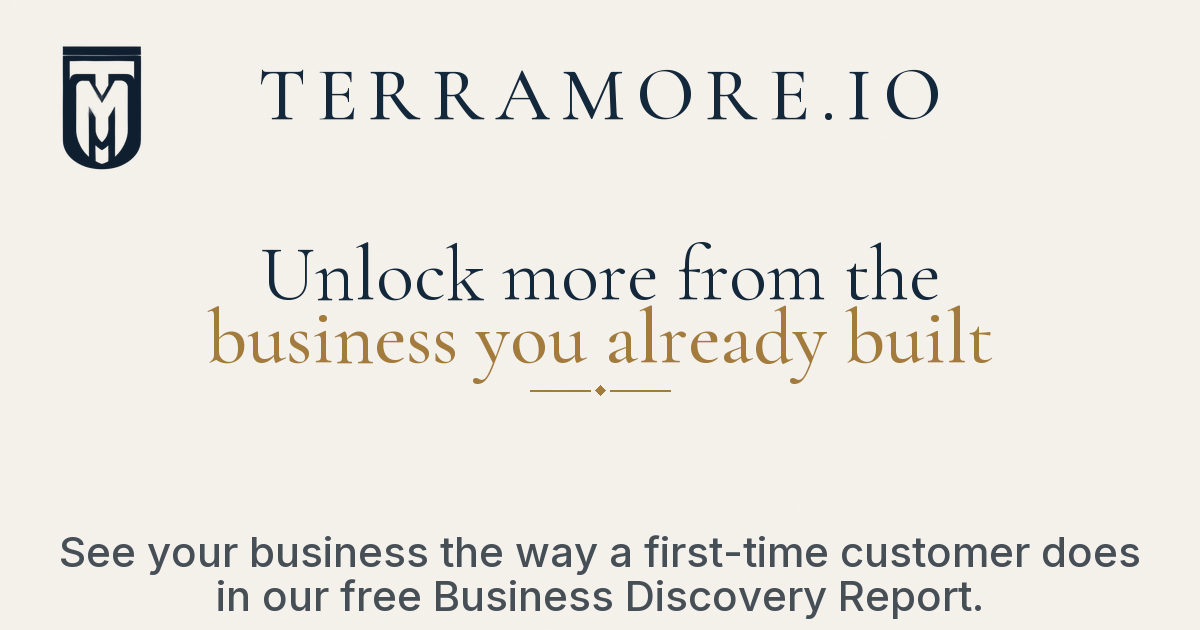
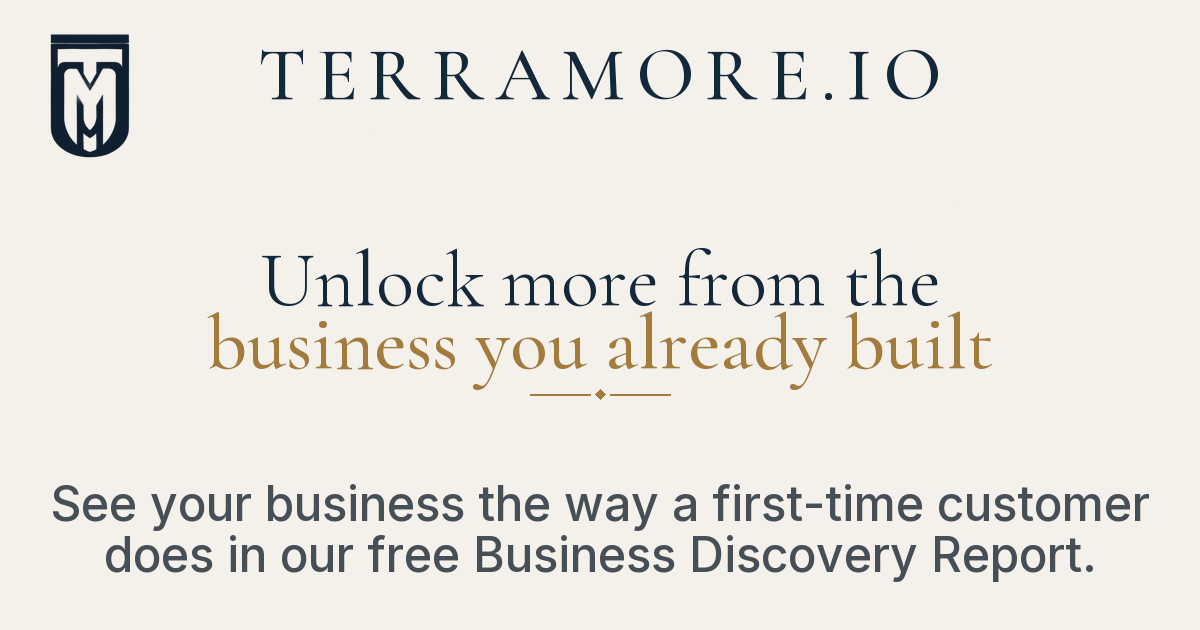
Title-case the growth-team line and balance the share card margins.

diff --git a/app/layout.tsx b/app/layout.tsx
@@ -9,7 +9,7 @@ const googleSiteVerification =
 
 export const metadata: Metadata = {
   ...(googleSiteVerification ? { verification: { google: googleSiteVerification } } : {}),
-  title: 'Terramore | A growth team for owners',
+  title: 'Terramore | A Growth Team for Owners',
   description: 'Terramore works inside your store, ads, and email to find where you lose sales and fix it. For owners with a shop, a service, or a list. Talk first, or ask for a free Digital Footprint report.',
   keywords: 'growth team, small business marketing, ecommerce, email marketing, advertising, digital footprint report',
   authors: [{ name: 'Adam Moreno' }],
@@ -27,7 +27,7 @@ export const metadata: Metadata = {
     apple: 'https://res.cloudinary.com/dzzzkruux/image/upload/v1768374905/Screenshot_2026-01-13_at_11.10.56_PM_eqtvoj.png',
   },
   openGraph: {
-    title: 'Terramore | A growth team for owners',
+    title: 'Terramore | A Growth Team for Owners',
     description: 'Terramore works inside your store, ads, and email to find where you lose sales and fix it. For owners with a shop, a service, or a list. Talk first, or ask for a free Digital Footprint report.',
     url: 'https://terramore.io',
     siteName: 'Terramore.io',
@@ -44,7 +44,7 @@ export const metadata: Metadata = {
   },
   twitter: {
     card: 'summary_large_image',
-    title: 'Terramore | A growth team for owners',
+    title: 'Terramore | A Growth Team for Owners',
     description: 'Terramore works inside your store, ads, and email to find where you lose sales and fix it. For owners with a shop, a service, or a list. Talk first, or ask for a free Digital Footprint report.',
     images: ['/share/terramore-share-v2-og.png'],
   },

diff --git a/app/llms.txt/route.ts b/app/llms.txt/route.ts
@@ -1,6 +1,6 @@
 const LLMS_TXT = `# Terramore
 
-> A growth team for owners. Terramore is a founder-led growth consultancy that works inside the store, ads, and email a business already pays for, finds where it loses sales, and fixes that step.
+> A Growth Team for Owners. Terramore is a founder-led growth consultancy that works inside the store, ads, and email a business already pays for, finds where it loses sales, and fixes that step.
 
 Terramore serves owners with a shop, a service, or a customer list. Work starts with a free call. A free Digital Footprint report is the backup if they are not ready to talk. The client dashboard (Terra IQ) is invite only for current clients. The client owns the data and assets. Monthly work is optional.
 

diff --git a/DEVELOPMENT_LOG.md b/DEVELOPMENT_LOG.md
@@ -1,5 +1,10 @@
 # Development Log - Terramore Website
 
+## 2026-09-14 — Share card margin + title case
+
+- Browser title / OG / Twitter: "Terramore | A Growth Team for Owners".
+- Share card: bottom subheader one size larger; top and bottom margins matched. Asset: `/share/terramore-share-v2-og.png`.
+
 ## 2026-09-14 — Share card layout tighten
 
 - Larger top-left logo (~3×), larger TERRAMORE.IO, centered headline, discovery line larger and pinned to the bottom. Asset: `/share/terramore-share-v2-og.png`.
